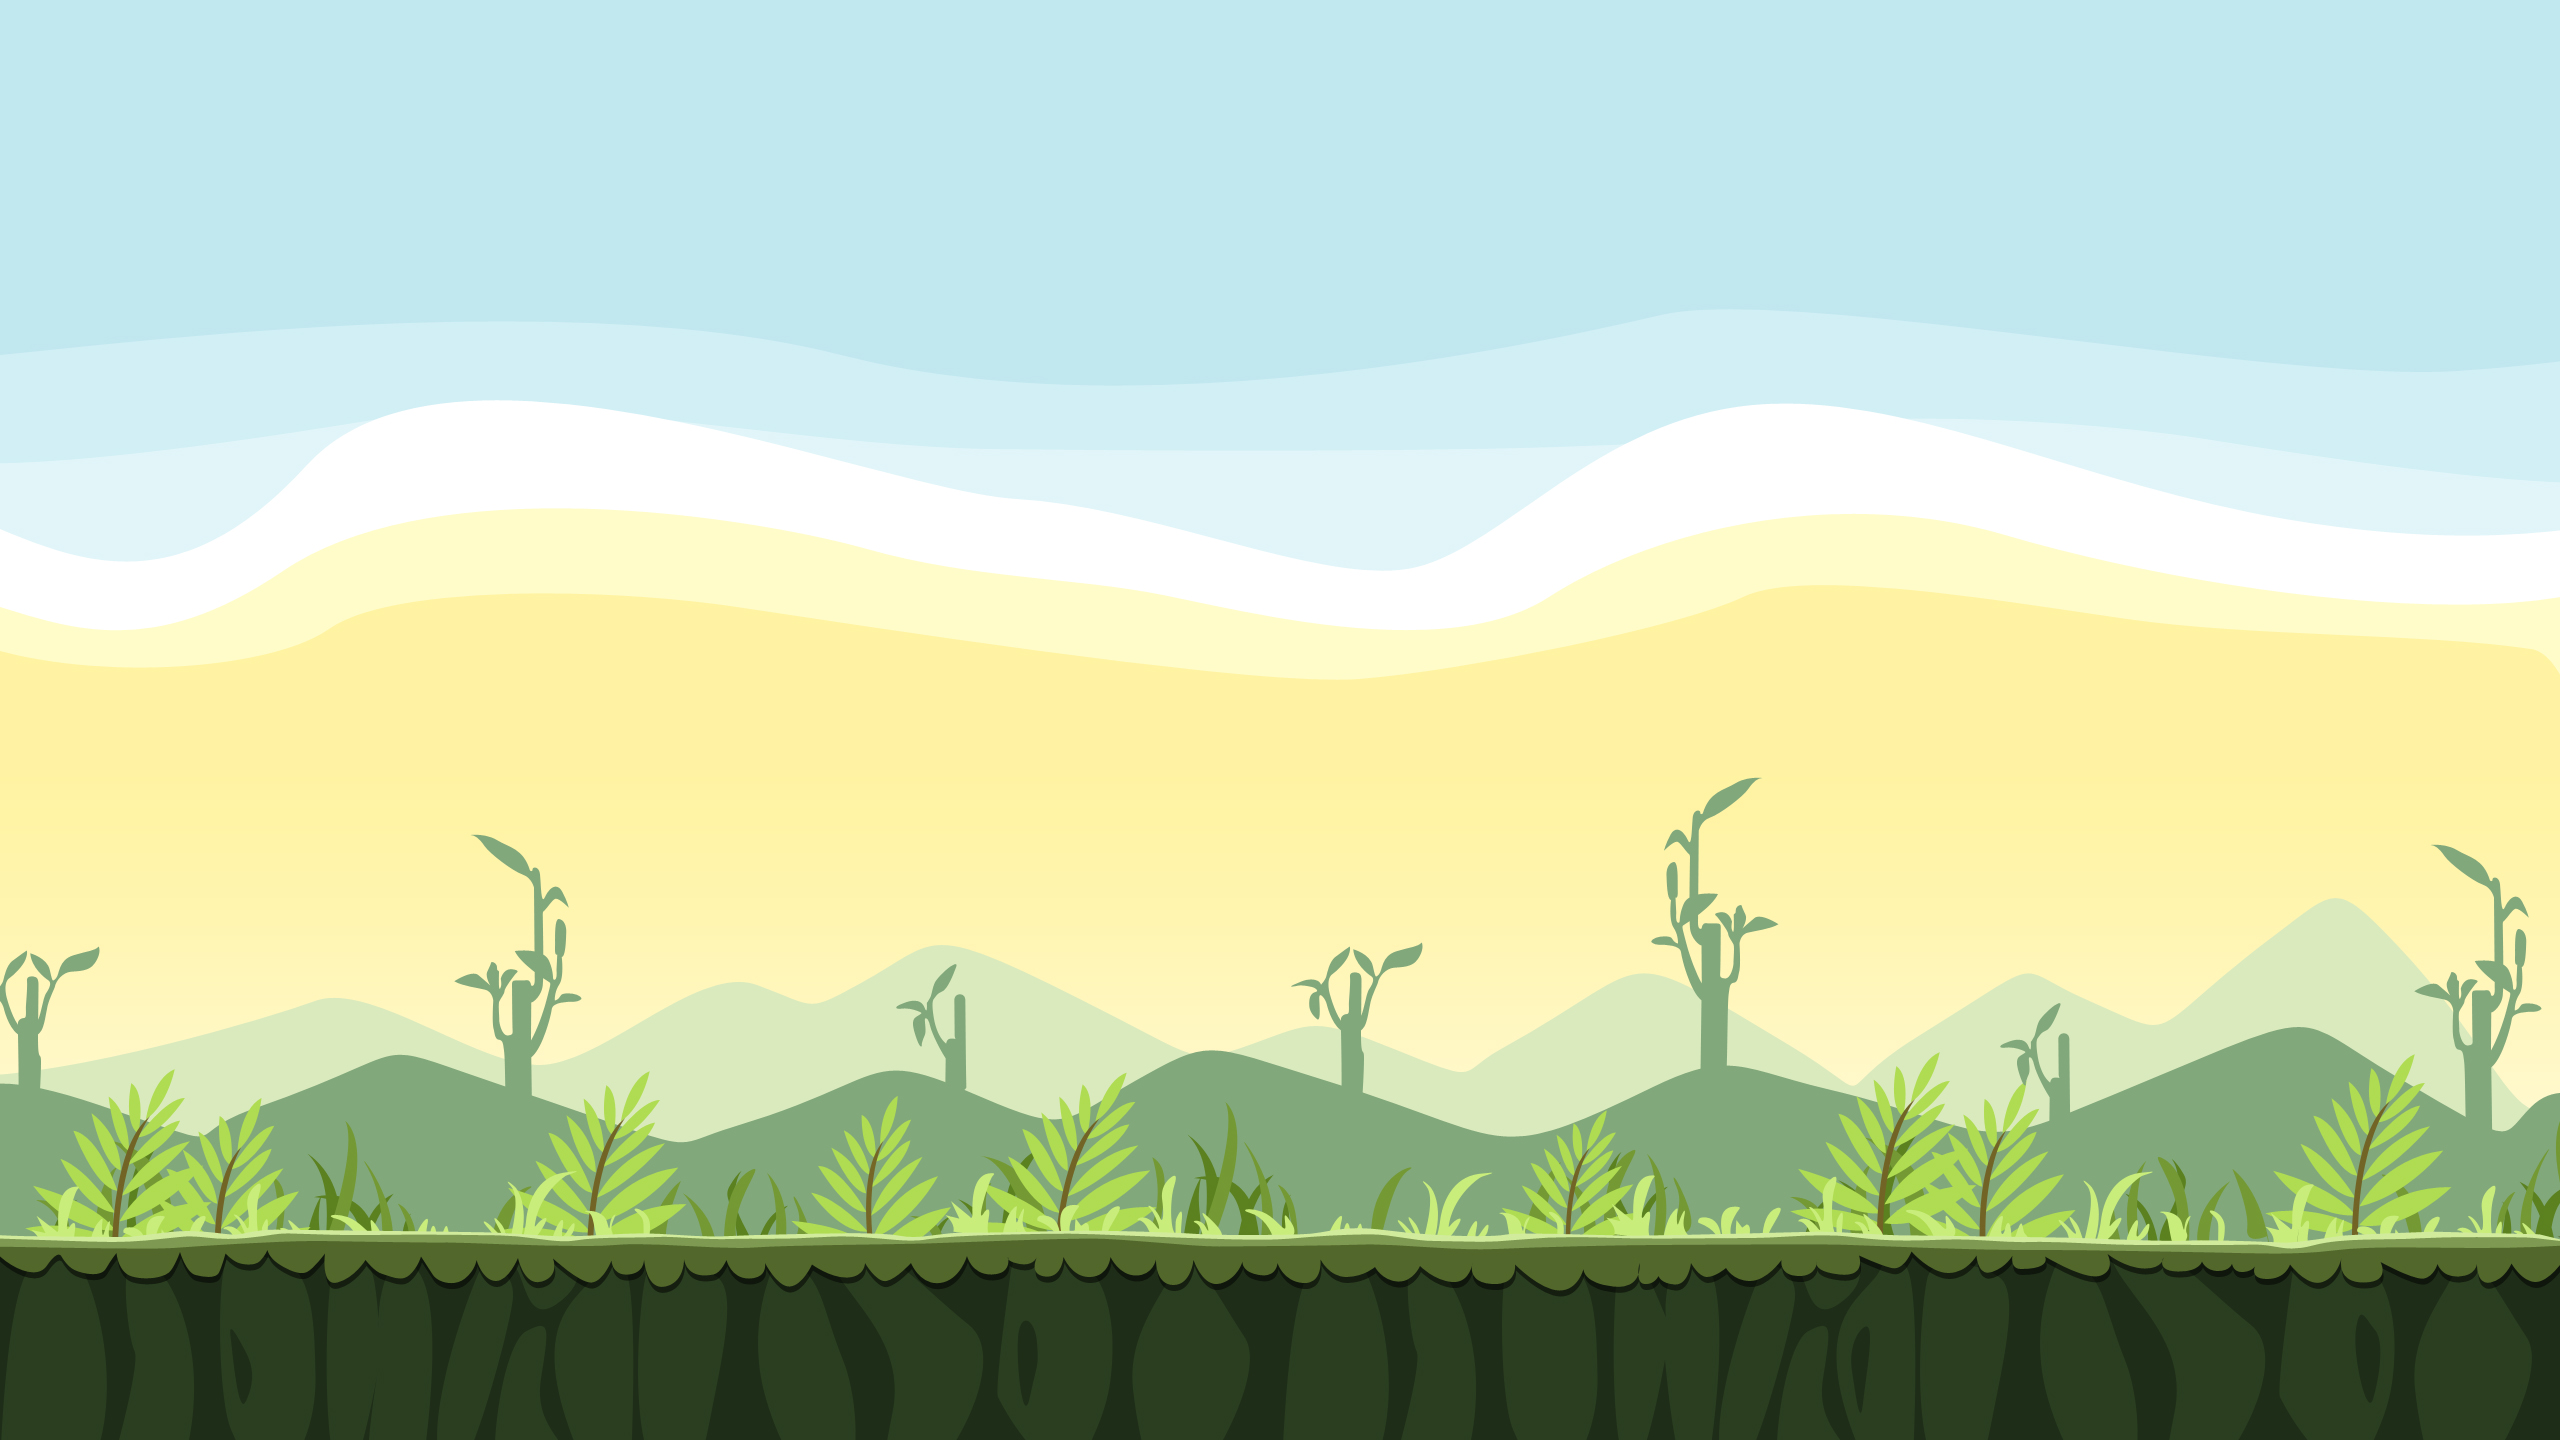
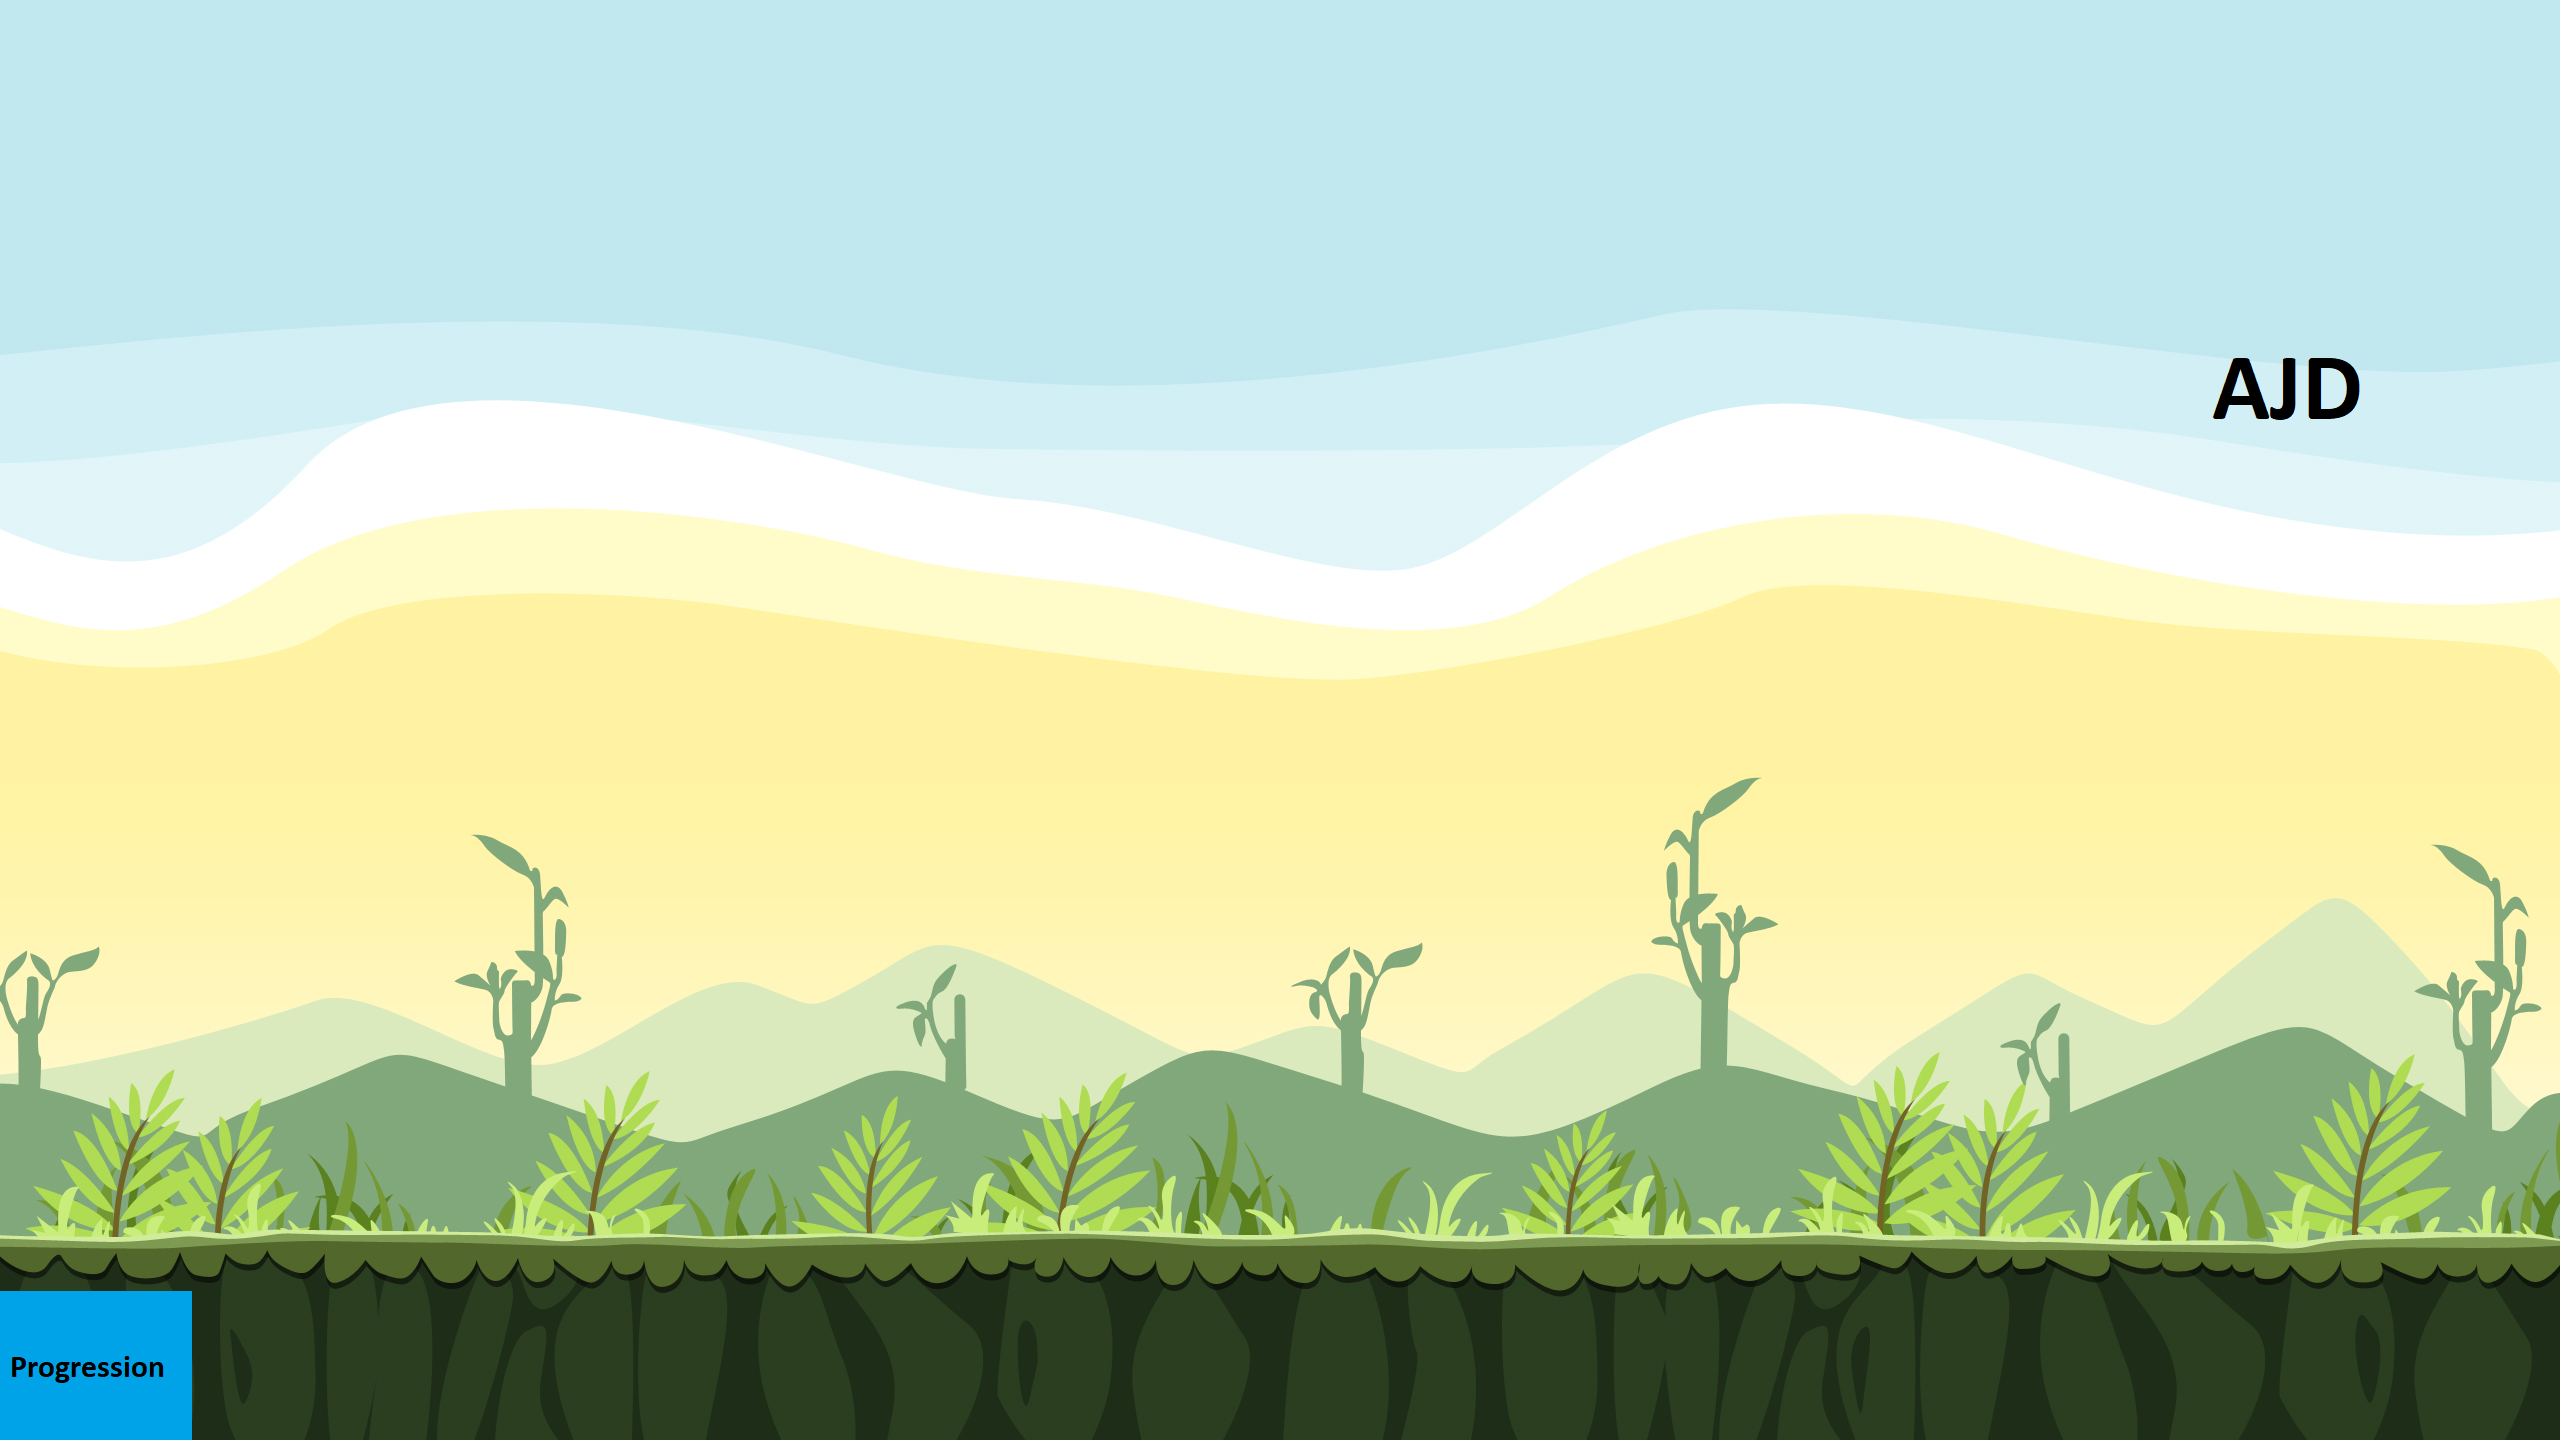
WIP

Changed region(s): [[0.0, 0.875, 0.0938, 1.0], [0.8438, 0.25, 0.9375, 0.3125]]

diff --git a/core/src/ch/cpnv/angrywirds/Activities/Progress.java b/core/src/ch/cpnv/angrywirds/Activities/Progress.java
@@ -1,0 +1,41 @@
+package ch.cpnv.angrywirds.Activities;
+
+import com.badlogic.gdx.Gdx;
+import com.badlogic.gdx.graphics.Texture;
+
+import ch.cpnv.angrywirds.Models.Stage.ScoreBoard;
+import ch.cpnv.angrywirds.Models.Stage.Title;
+import ch.cpnv.angrywirds.Models.Stage.Words;
+
+public class Progress extends GameActivity {
+
+    private Texture background;
+    private Title title;
+    private Words words;
+
+    public Progress() {
+        super();
+        background = new Texture(Gdx.files.internal("progress.png"));
+        title = new Title("Voici le progrès");
+        words = new Words();
+    }
+
+    @Override
+    protected void handleInput() {
+
+    }
+
+    @Override
+    public void update(float dt) {
+
+    }
+
+    @Override
+    public void render() {
+        spriteBatch.begin();
+        spriteBatch.draw(background, 0, 0, camera.viewportWidth, camera.viewportHeight);
+        title.draw(spriteBatch);
+        spriteBatch.end();
+        words.draw(spriteBatch);
+    }
+}

diff --git a/core/src/ch/cpnv/angrywirds/Models/Stage/Words.java b/core/src/ch/cpnv/angrywirds/Models/Stage/Words.java
@@ -1,0 +1,25 @@
+package ch.cpnv.angrywirds.Models.Stage;
+
+import com.badlogic.gdx.graphics.Color;
+import com.badlogic.gdx.graphics.g2d.Batch;
+import com.badlogic.gdx.graphics.g2d.BitmapFont;
+
+import java.lang.reflect.Array;
+
+import ch.cpnv.angrywirds.Activities.GameActivity;
+
+public class Words {
+    private static Array FoundWords;
+    private BitmapFont font;
+
+    public void Words() {
+        font = new BitmapFont();
+        font.setColor(Color.BLACK);
+        font.getData().setScale(2);
+    }
+
+    public void draw(Batch batch) {
+        font.draw(batch, "Score: ", 200, 200);
+        font.draw(batch, "Temps restant: ", 200, 240);
+    }
+}

diff --git a/core/src/ch/cpnv/angrywirds/Activities/Play.java b/core/src/ch/cpnv/angrywirds/Activities/Play.java
@@ -218,6 +218,8 @@ public class Play extends GameActivity implements InputProcessor {
     @Override
     public boolean touchDown(int screenX, int screenY, int pointer, int button) {
         Vector3 pointTouched = camera.unproject(new Vector3(screenX, screenY, 0)); // Convert from screen coordinates to camera coordinates
+        if (pointTouched.x < 115 && pointTouched.y < 115)
+            AngryWirds.gameActivityManager.push(new Progress());
         actions.add(new Touch(pointTouched, Touch.Type.down));
         return false;
     }
